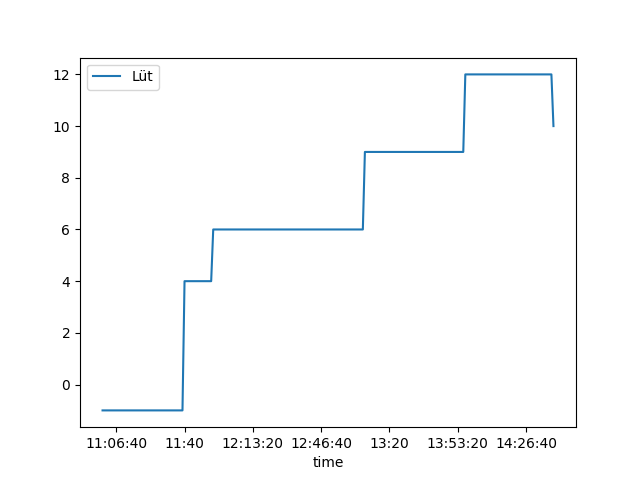
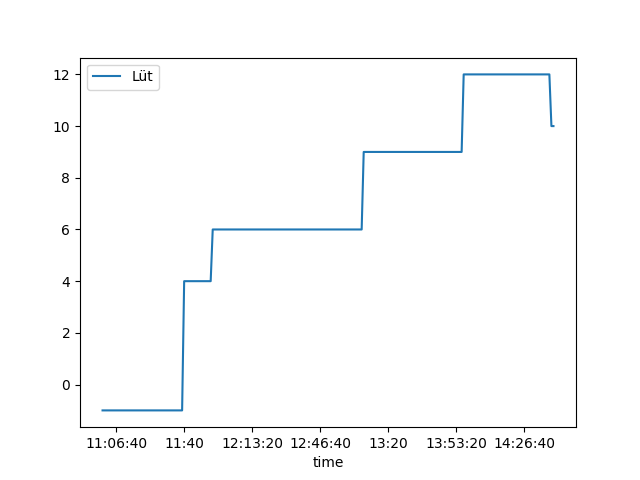
auto: new data

diff --git a/README.md b/README.md
@@ -1,4 +1,4 @@
-### Jitz grad: 10/33 (Määnti, 2021-12-27 14:40:00
+### Jitz grad: 10/33 (Määnti, 2021-12-27 14:41:00
 
 ### Hütige Vrlouf:
 ![Graph](Today.png)
